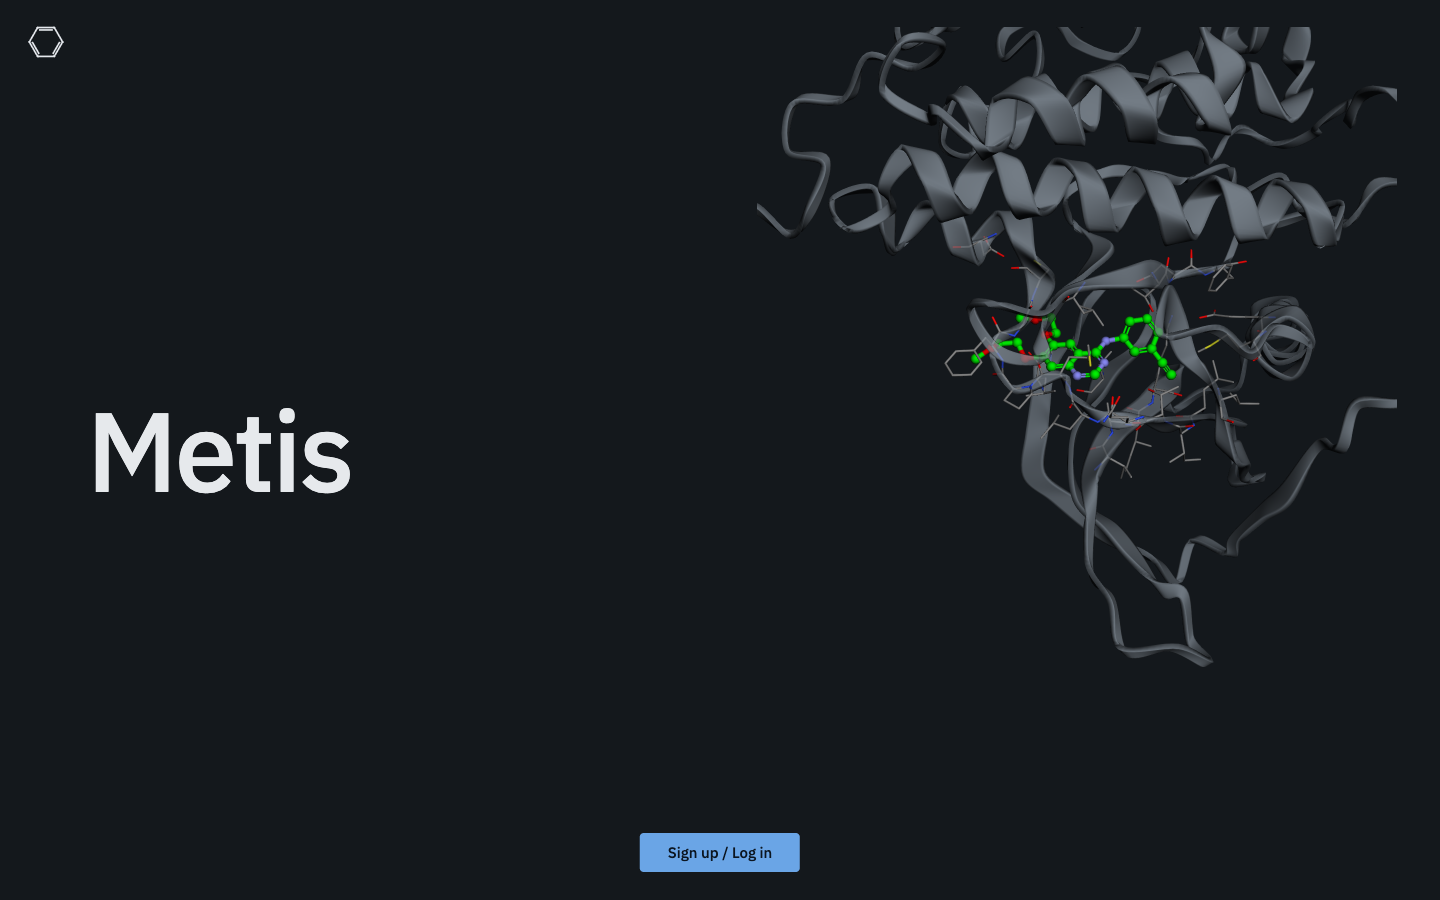
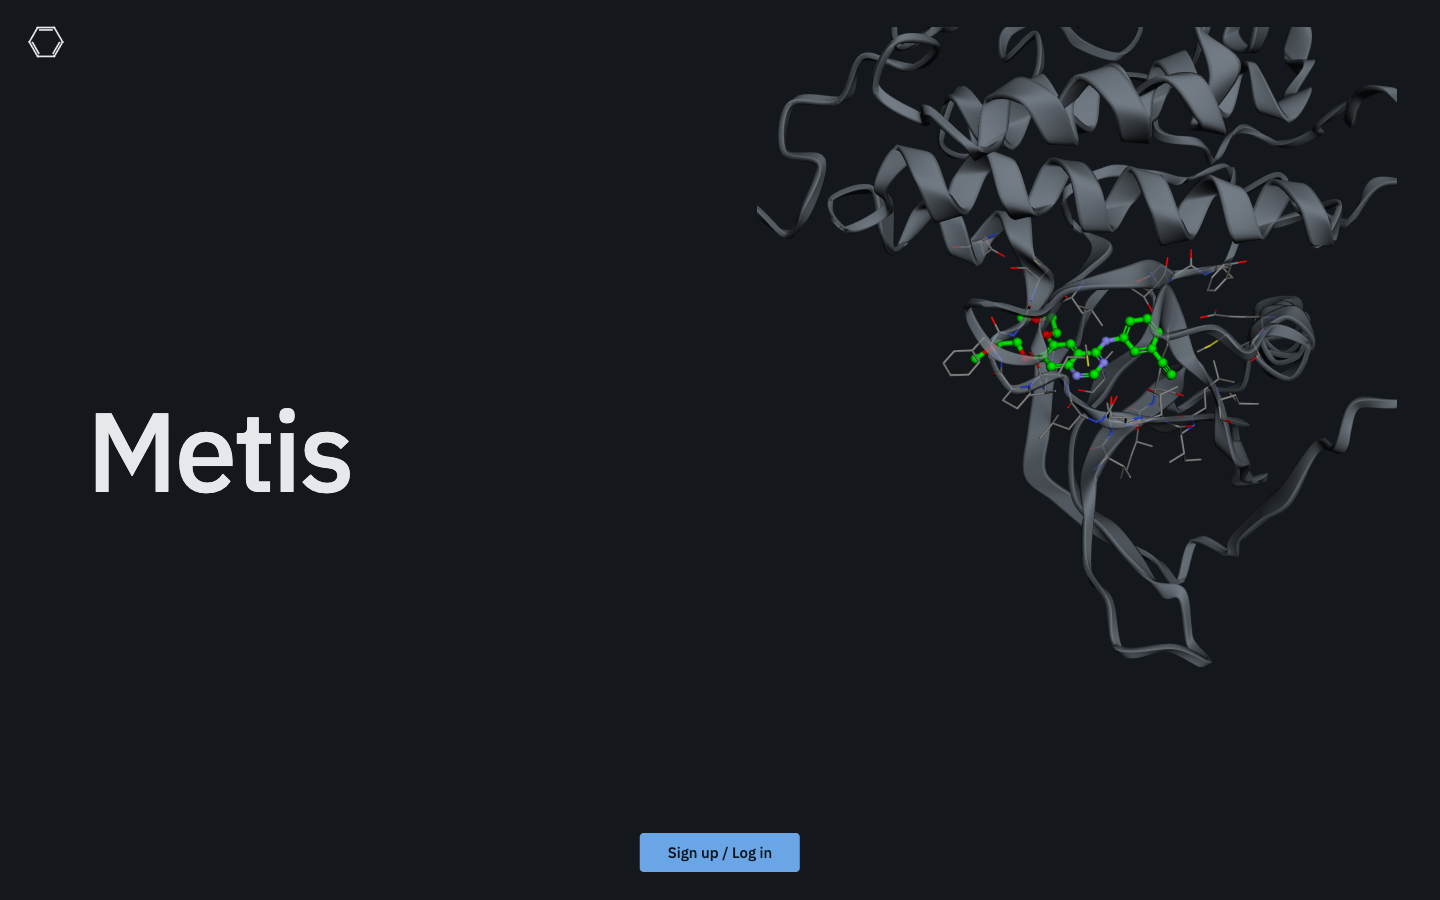
wave1/design: fix racy account delete test

diff --git a/tests/web/test_pages.py b/tests/web/test_pages.py
@@ -325,4 +325,4 @@ def test_account_consents_default_off_and_delete(make_page):
     pg.fill("#c-in", "DELETE")
     assert pg.locator("#c-ok").is_enabled()
     pg.click("#c-ok")
-    assert "nothing was deleted" in pg.inner_text("#del-msg").lower() or "nothing is stored" in pg.inner_text("#del-msg")
+    pg.wait_for_function("document.getElementById('del-msg').textContent.includes('nothing is stored')")
